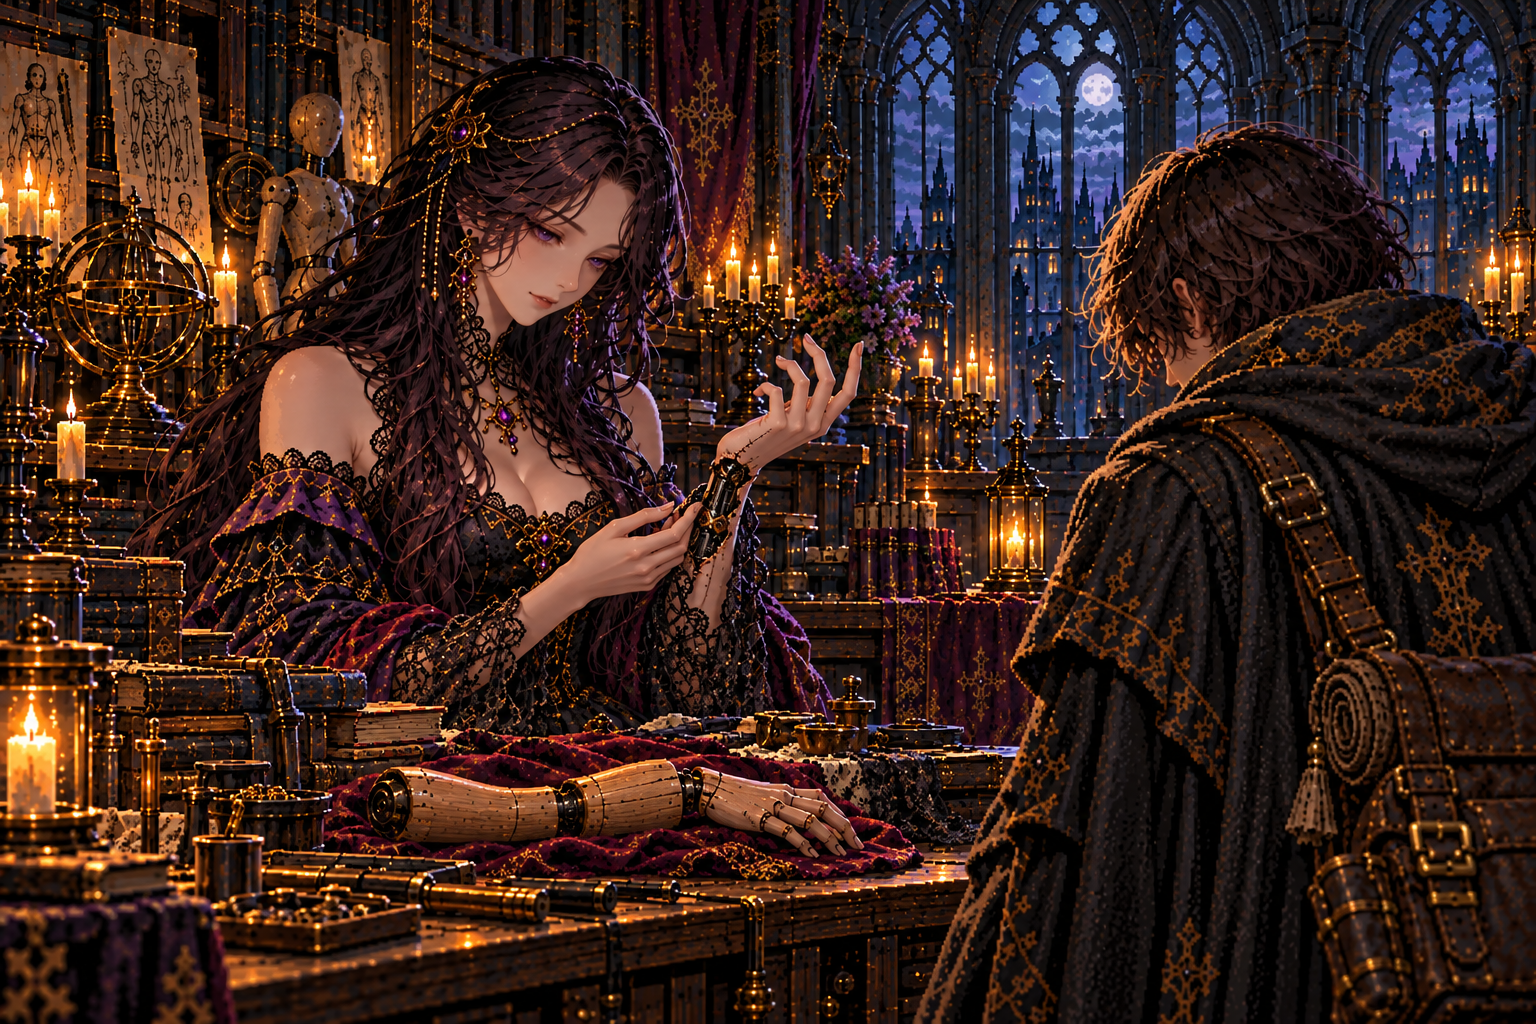
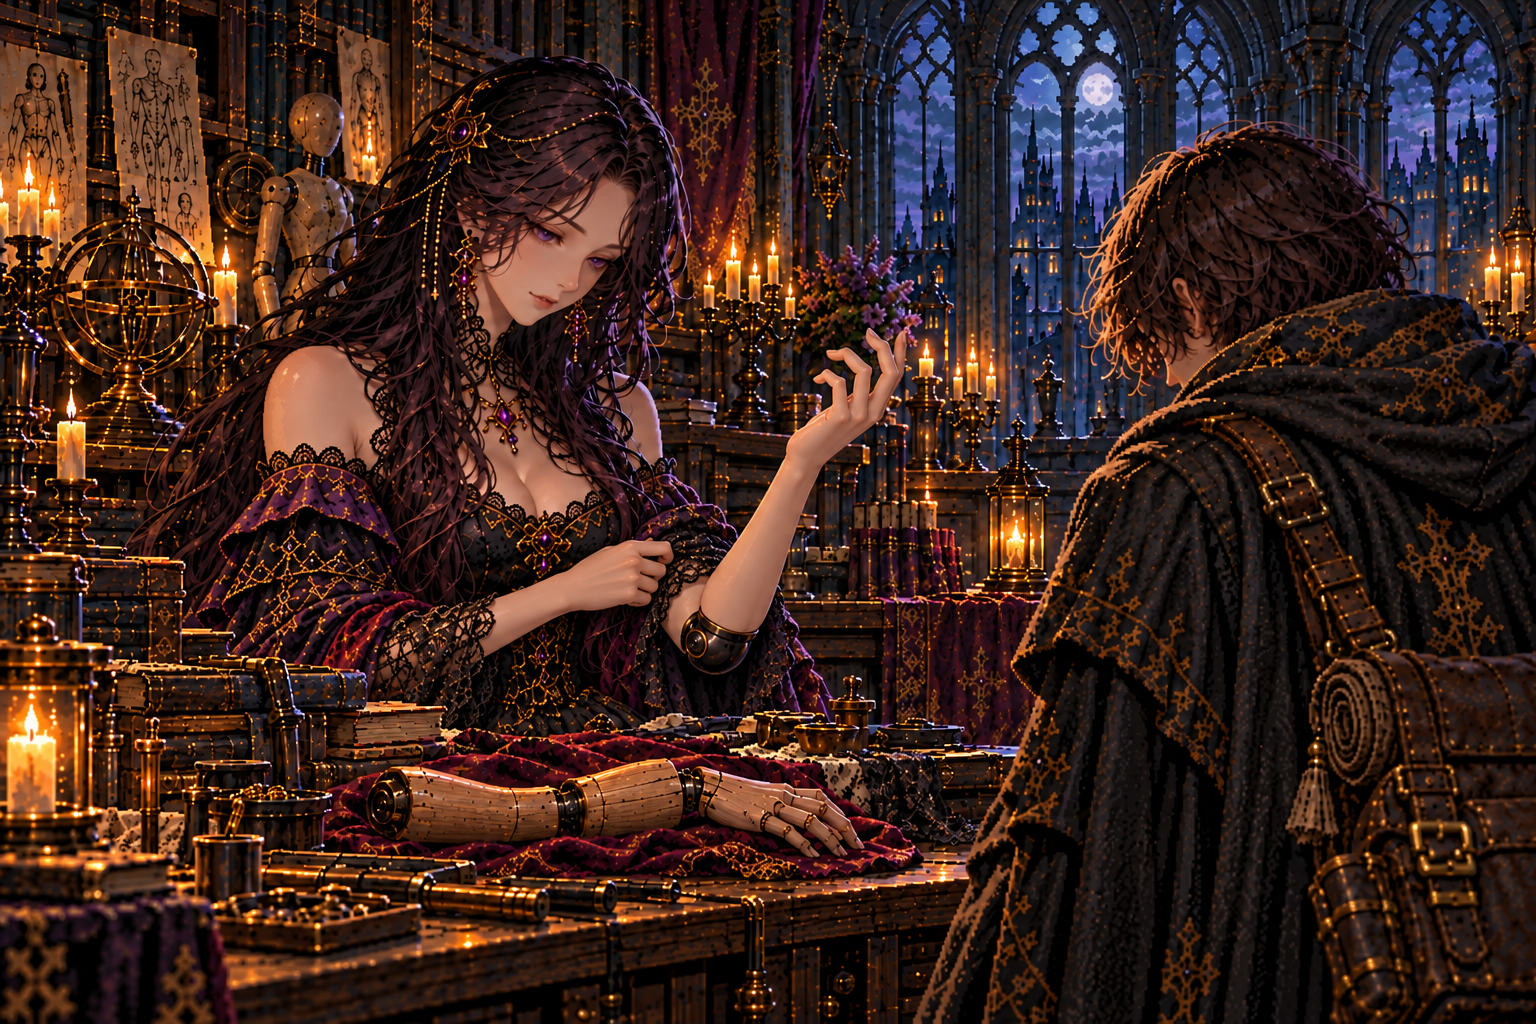
イレーヌの継ぎ目を肘の人業関節へ修正

diff --git a/src/archive-stories.js b/src/archive-stories.js
@@ -110,9 +110,9 @@ export const ARCHIVE_STORIES = [
   ]),
   scene("irene_reveal", 1, "レースの下の継ぎ目", beat("irene_reveal"), "workshop", "joint", [
     "腕を見せると、イレーヌの手が止まった。返ってきた名はセラ。師が彼女より先に作り、ともに迷宮へ連れていった人業だった。",
-    "イレーヌは黒いレースの袖口を、自分の指でめくり上げた。のぞいた白い手首には、腕と同じ黒鉄の継ぎ目が巻きついている。館を預かり、器を作り、灯を守る彼女自身も、師の作った人業だった。",
+    "イレーヌは黒いレースの袖口を、自分の指で肘までめくり上げた。のぞいた白い手首の先に、腕と同じ黒鉄の肘の継ぎ目が見える。館を預かり、器を作り、灯を守る彼女自身も、師の作った人業だった。",
     "取水口の札に残された、イレーヌには言うな、という一言を伝えると、彼女は困ったように目を伏せた。セラが流されたと知れば、自分が灯を置いて捜しに出てしまう。師はそう案じたのだろう、と。そのうえで彼女は、セラより深くへ進んだかもしれない師を、見つけてほしいと願った。",
-    "人業という名は、旅の仲間だけを指すものではなくなった。帰る場所で待つ人の手首にも、同じ継ぎ目があった。",
+    "人業という名は、旅の仲間だけを指すものではなくなった。帰る場所で待つ人の肘にも、同じ継ぎ目があった。",
   ], {people:"irene", pose:"joint"}),
   scene("report_w04", 1, "答えを飲み込んだ王", reported("w04"), "throne", "waterMap", [
     "取水口で見た流れを伝えると、王はその先が王都の中心へ向かうことを認めた。水は地下を巡り、遠い場所同士を結んでいる。",

diff --git a/src/story.js b/src/story.js
@@ -1632,7 +1632,7 @@ export const IRENE_BEATS = [
       ...(s.beat("irene_sera")
         ? ["イレーヌ「セラの腕です。……独房から連れ帰ってくださった、あの子の。」"]
         : ["イレーヌ「この子は、セラ。オルド様が、わたしの前に作った人業です。」", "イレーヌ「あの方と一緒に、迷宮へ降りたはずの子です。」"]),
-      "彼女は袖口の黒いレースをめくった。白い手首に、黒鉄の継ぎ目が光っていた。",
+      "彼女は袖口の黒いレースをめくった。白い手首の先に、黒鉄の継ぎ目が光っていた。",
       "イレーヌ「……隠すつもりはありませんでした。わたしも、人業です。」",
       "イレーヌ「オルド様に作られ、オルド様の灯を守るために、ここにいます。」",
       "イレーヌ「セラが流されてきたのなら、あの方は水よりも深い所へ行ったのでしょう。……お願いします。見つけてください。」",

diff --git a/docs/art/codex-story-art-brief.md b/docs/art/codex-story-art-brief.md
@@ -214,6 +214,14 @@ Character reference sheet on a plain dark slate-blue background with soft even l
 
 ### A. 必須 (物語の筋や正典と食い違う)
 
+**A-37. 第一章 irene_reveal「レースの下の継ぎ目」** `art/story-review/chapter1/irene_reveal.png` (済)
+- ユーザー指定 (2026-10-14): 手首のレース下のロボット状の機構を除去し、レースを肘までめくって、他の人業と同じ黒鉄の肘の継ぎ目を見せる。白い手首と前腕は滑らかにする。
+- 本文もユーザー指示に合わせ「白い手首に、」を「白い手首の先に、」へ変更。一覧の説明も肘の継ぎ目にそろえる。
+- 保つもの: イレーヌと弟子の顔・髪・衣装、台のセラの腕、館の背景、構図、画風、光。
+```text
+...except: Irene lifts and gathers the black lace sleeve of her raised arm all the way up to just above her ELBOW with her other hand, revealing her smooth pale ivory wrist and full forearm and a clearly visible BLACK IRON ARTICULATED ELBOW JOINT. The elbow is located at the lower end of her raised forearm, near the tabletop, anatomically connecting her upper arm and forearm. Match the simple rounded hinge and black iron joint bands of the wooden party dolls reference and the detached wooden arm already on the table. Remove the entire long exposed robotic mechanism currently running along her wrist and forearm: no pistons, rods, gears, wires, exoskeleton or metal forearm plating. Her wrist, hand and forearm remain smooth pale ivory with natural adult proportions; the only exposed black iron mechanism on Irene is the compact rounded joint at the ELBOW. Her opposite hand gently gathers the sleeve above that elbow, rather than pointing at her wrist. Preserve Irene's exact face, purple eyes, hair, jewelry, gown, the apprentice, the detached Sera arm on the table, every background object, framing, detailed pixel texture and warm candlelight/cool moonlight. This is an edit of the existing composition, not a new scene. No lettering.
+```
+
 **A-36. 第一章 report_w04「答えを飲み込んだ王」** `art/story-review/chapter1/report_w04.png` (済)
 - 直す: 王の手が3本ある。画面右へ差し出した余分な手と、それにつながる腕・袖を消し、赤い衣と白い毛皮の自然な折り目にする。
 - 保つもの: 口元に添えた手、机に置いた手、王の顔と姿勢、宰相、弟子、地図、金貨、構図、画風、光。

diff --git a/art/story-review/review/chapter1.md b/art/story-review/review/chapter1.md
@@ -227,11 +227,11 @@
 
 > 腕を見せると、イレーヌの手が止まった。返ってきた名はセラ。師が彼女より先に作り、ともに迷宮へ連れていった人業だった。
 >
-> イレーヌは黒いレースの袖口を、自分の指でめくり上げた。のぞいた白い手首には、腕と同じ黒鉄の継ぎ目が巻きついている。館を預かり、器を作り、灯を守る彼女自身も、師の作った人業だった。
+> イレーヌは黒いレースの袖口を、自分の指で肘までめくり上げた。のぞいた白い手首の先に、腕と同じ黒鉄の肘の継ぎ目が見える。館を預かり、器を作り、灯を守る彼女自身も、師の作った人業だった。
 >
 > 取水口の札に残された、イレーヌには言うな、という一言を伝えると、彼女は困ったように目を伏せた。セラが流されたと知れば、自分が灯を置いて捜しに出てしまう。師はそう案じたのだろう、と。そのうえで彼女は、セラより深くへ進んだかもしれない師を、見つけてほしいと願った。
 >
-> 人業という名は、旅の仲間だけを指すものではなくなった。帰る場所で待つ人の手首にも、同じ継ぎ目があった。
+> 人業という名は、旅の仲間だけを指すものではなくなった。帰る場所で待つ人の肘にも、同じ継ぎ目があった。
 
 **ゲーム内 (館の語り IRENE_BEATS.irene_reveal)**
 
@@ -243,7 +243,7 @@
 >
 > イレーヌ「セラの腕です。……独房から連れ帰ってくださった、あの子の。」
 >
-> 彼女は袖口の黒いレースをめくった。白い手首に、黒鉄の継ぎ目が光っていた。
+> 彼女は袖口の黒いレースをめくった。白い手首の先に、黒鉄の継ぎ目が光っていた。
 >
 > イレーヌ「……隠すつもりはありませんでした。わたしも、人業です。」
 >
